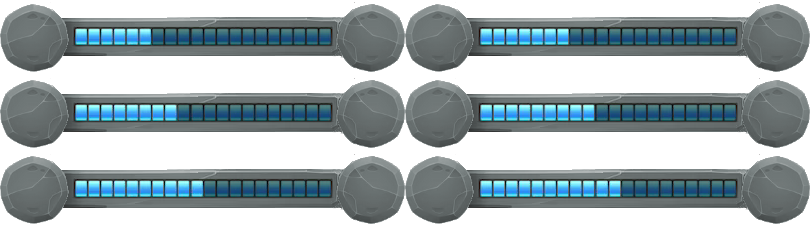
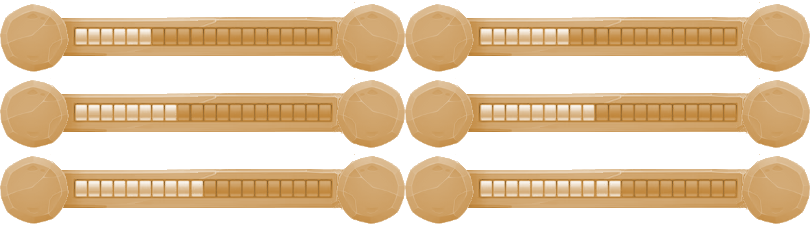
second commit

diff --git a/code/bits/client/DownloadEntity.cc b/code/bits/client/DownloadEntity.cc
@@ -1,8 +1,10 @@
 #include "DownloadEntity.h"
 
-#include <gf/AnimatedSprite.h>
 #include <gf/Coordinates.h>
 #include <gf/RenderTarget.h>
+#include <gf/Sprite.h>
+#include <gf/Text.h>
+#include <gf/Log.h>
 
 #include <cmath>
 
@@ -13,54 +15,68 @@ namespace tsl {
         static constexpr float barIncrement = 100 / 6.f;
     }
 
-    DownloadEntity::DownloadEntity(gf::Texture& tempTexture)
-    : m_tempTexture(tempTexture)
-    , m_animationLoaded(false)
-    , m_percentage(0) {
-        m_tempTexture.setSmooth(true);
-    }
-
-    void DownloadEntity::loadAnimation(std::vector<gf::Ref<gf::Texture>> textures) {
-        m_textures = textures;
-
-        m_animationLoaded = true;
+    DownloadEntity::DownloadEntity(gf::ResourceManager& resources)
+    : m_percentage(0)
+    , m_textures(std::vector<gf::Ref<gf::Texture>>({
+			resources.getTexture("animations/download_screen_0.png"),
+			resources.getTexture("animations/download_screen_1.png"),
+			resources.getTexture("animations/download_screen_2.png"),
+			resources.getTexture("animations/download_screen_3.png"),
+		}))
+    , m_backgroundTexture(resources.getTexture("images/downloadBackground.jpg"))
+    , m_font(resources.getFont("fonts/Trajan-Color-Concept.otf"))
+    , m_indication("Chargement ")
+    , m_interval(gf::seconds(0))
+    {
+        
     }
 
     void DownloadEntity::changeFrame() {
-        if (!m_animationLoaded) {
-            return;
-        }
-
         m_percentage += barIncrement;
     }
 
+    void DownloadEntity::update([[maybe_unused]] gf::Time time) {
+        m_interval += time;
+        gf::Log::info("la %f\n\n", m_interval.asSeconds());
+        if(m_interval.asSeconds() > 0.6f) {
+            m_interval = gf::Time::Zero;
+            
+            if(m_indication.size()==14) {
+                m_indication = m_indication.substr(0, 11);
+            }
+            m_indication += ".";
+        }
+    }
+    
     void DownloadEntity::render(gf::RenderTarget& target, const gf::RenderStates& states) {
         gf::Coordinates coordinates(target);
 
-        if (!m_animationLoaded) {
-            gf::Sprite sprite(m_tempTexture);
-            
-            float scaleFactor = coordinates.getWindowSize().y / static_cast<float>(DownloadScreenSize.height) * 0.1f;
-            sprite.scale(scaleFactor);
-    
-            sprite.setPosition(coordinates.getCenter());
-            sprite.setAnchor(gf::Anchor::Center);
-            target.draw(sprite, states);
-        }
-        else {
-            std::size_t numSpreadSheat = ((m_percentage==100) ? 99 : m_percentage) / 30;
-            float col = (static_cast<int>(ceilf(m_percentage)) % 10 == 0) ? 0.0f : 0.5f;
-            int mod = (numSpreadSheat != m_textures.size()-1) ? 30 : 15;
-            float lig = 1/3.f * (static_cast<int>(ceilf(m_percentage)) % mod / 10);
-            
-            gf::Sprite sprite(m_textures[numSpreadSheat], gf::RectF::fromPositionSize({ col, lig }, { 0.5f, 1/3.f }));
-            
-            float scaleFactor = coordinates.getWindowSize().y / static_cast<float>(DownloadScreenSize.height) * 0.1f;
-            sprite.scale(scaleFactor);
-    
-            sprite.setPosition(coordinates.getCenter());
-            sprite.setAnchor(gf::Anchor::Center);
-            target.draw(sprite, states);   
-        }
+        const gf::Vector2f scale = coordinates.getWindowSize() / gf::vec(1920.0f, 1080.0f);
+        gf::Sprite background(m_backgroundTexture);
+        background.setScale(scale);
+        
+        std::size_t numSpreadSheat = ((m_percentage==100) ? 99.f : m_percentage) / 30;
+        float col = (static_cast<int>(ceilf(m_percentage)) % 10 == 0) ? 0.0f : 0.5f;
+        int mod = (numSpreadSheat != m_textures.size()-1) ? 30 : 15;
+        float lig = 1/3.f * (static_cast<int>(ceilf(m_percentage)) % mod / 10);
+        
+        gf::Sprite sprite(m_textures[numSpreadSheat], gf::RectF::fromPositionSize({ col, lig }, { 0.5f, 1/3.f }));
+        
+        float scaleFactor = coordinates.getWindowSize().y / static_cast<float>(DownloadScreenSize.height) * 0.1f;
+        sprite.scale(scaleFactor);
+
+        sprite.setPosition(coordinates.getRelativePoint({ 0.5f, 0.8f}));
+        sprite.setAnchor(gf::Anchor::Center);
+
+
+        gf::Text download(m_indication, m_font);
+        download.setScale(scale);
+        download.setColor(gf::Color::White);
+        download.setPosition(coordinates.getRelativePoint({ 0.435f, 0.87f }));
+        download.setAnchor(gf::Anchor::CenterLeft);
+
+        target.draw(background, states);
+        target.draw(sprite, states);
+        target.draw(download, states);
     }
 }

diff --git a/code/bits/client/SettingsScene.cc b/code/bits/client/SettingsScene.cc
@@ -10,11 +10,16 @@
 
 namespace tsl {
     
+    namespace {
+        constexpr std::size_t nb_themes = 3;
+        std::array<std::string, nb_themes> themes = { "Bois", "Marbre", "Papier" };
+    }
+
     SettingsScene::SettingsScene(GameHub& game)
     : gf::Scene({game.getRenderer().getSize()})
     , m_game(game)
     , m_settings(game.resources)
-    , m_theme(0)
+    , m_theme(1)
     , m_music(0)
     , m_sound(0)
     {
@@ -62,11 +67,17 @@ namespace tsl {
         if (ImGui::Begin("Settings", nullptr, DefaultWindowFlags|ImGuiWindowFlags_NoTitleBar|ImGuiWindowFlags_NoBackground)) {
             ImGui::PushItemWidth(m_settings.m_paper.getSize().x * (scale.x / 1.56f));
             ImGui::SetWindowFontScale(coords.getRelativeCharacterSize(0.02f) * 0.059f);
-            
+
+            style.Colors[ImGuiCol_Text]                  = ImVec4(1.0f, 1.0f, 1.0f, 0.0f);
             ImGui::SetCursorPosX(sizeWindow.x * 0.065f);
             ImGui::SetCursorPosY(sizeWindow.y * 0.06f);
-            ImGui::SliderInt("", &m_theme, 1, 3);
-            
+            ImGui::SliderInt("", &m_theme, 1, nb_themes);
+
+            style.Colors[ImGuiCol_Text]                  = ImVec4(0.8f, 0.8f, 0.8f, 1.f);
+            ImGui::SetCursorPosX((sizeWindow.x - ImGui::CalcTextSize(themes[m_theme-1].c_str()).x) * 0.5f);
+            ImGui::SetCursorPosY(sizeWindow.y * 0.06f);
+            ImGui::Text("%s", themes[m_theme-1].c_str());
+
             ImGui::SetCursorPosX(sizeWindow.x * 0.065f);
             ImGui::SetCursorPosY(sizeWindow.y * 0.31f);
             ImGui::SliderInt(" ", &m_music, 0, 100);
@@ -78,7 +89,6 @@ namespace tsl {
             ImGui::SetCursorPosX((ImGui::GetWindowSize().x - sizeWindow.x * 0.2f) * 0.5f);
             ImGui::SetCursorPosY(sizeWindow.y * 0.74f);
             
-            ImGuiStyle& style = ImGui::GetStyle();
             style.Colors[ImGuiCol_Text]                  = ImVec4(1.0f, 1.0f, 1.0f, 0.0f);
             
             if (ImGui::Button("button", ImVec2(sizeWindow.x * 0.2f, sizeWindow.y * 0.2f))) {

diff --git a/code/bits/client/DownloadEntity.h b/code/bits/client/DownloadEntity.h
@@ -3,27 +3,30 @@
 
 #include <atomic>
 
-#include <gf/Animation.h>
 #include <gf/Entity.h>
+#include <gf/ResourceManager.h>
 #include <gf/Ref.h>
 
 namespace tsl {
 
 	class DownloadEntity: public gf::Entity {
 		public:
-			DownloadEntity(gf::Texture& tempTexture);
+			DownloadEntity(gf::ResourceManager& resources);
 
-			void loadAnimation(std::vector<gf::Ref<gf::Texture>> textures);
-			void changeFrame();
+			void changeFrame();			
 			
+			void update([[maybe_unused]] gf::Time time) override;
 			void render(gf::RenderTarget& target, const gf::RenderStates& states) override;
 
 		private:
-			gf::Texture& m_tempTexture;
-			std::atomic_bool m_animationLoaded;
-
-			std::vector<gf::Ref<gf::Texture>> m_textures;
 			float m_percentage;
+			std::vector<gf::Ref<gf::Texture>> m_textures;
+
+			gf::Texture& m_backgroundTexture;
+			gf::Font& m_font;
+			std::string m_indication;
+
+			gf::Time m_interval;
 	};
 
 } 

diff --git a/code/bits/client/DownloadScene.cc b/code/bits/client/DownloadScene.cc
@@ -7,21 +7,11 @@ namespace tsl {
 	DownloadScene::DownloadScene(GameHub& game)
 	: gf::Scene(game.getRenderer().getSize())
 	, m_game(game)
-	, m_downloadEntity(
-		m_game.resources.getTexture("images/download_screen.png")
-	) {
+	, m_downloadEntity(m_game.resources) 
+	{
 		setClearColor(gf::Color::Black);
 
 		addHudEntity(m_downloadEntity);
-	}
-
-	void DownloadScene::loadAnimation() {
-		m_downloadEntity.loadAnimation(std::vector<gf::Ref<gf::Texture>>({
-			m_game.resources.getTexture("animations/download_screen_0.png"),
-			m_game.resources.getTexture("animations/download_screen_1.png"),
-			m_game.resources.getTexture("animations/download_screen_2.png"),
-			m_game.resources.getTexture("animations/download_screen_3.png"),
-		}));
 	}
 
 	void DownloadScene::changeFrame() {

diff --git a/code/bits/client/RulesScene.cc b/code/bits/client/RulesScene.cc
@@ -8,7 +8,7 @@ namespace tsl {
     : gf::Scene(game.getRenderer().getSize())
     , m_game(game)
     , m_choice(RulesChoice::None)
-    , m_rules(game.resources,  m_choice)
+    , m_rules(m_game.resources,  m_choice)
     {
         setClearColor(gf::Color::Black);
         

diff --git a/code/bits/client/GameHub.h b/code/bits/client/GameHub.h
@@ -26,7 +26,6 @@ namespace tsl {
         GameHub& operator=(const GameHub&) = delete;
         GameHub& operator=(GameHub&&) = delete;
         
-        void loadingDownloadAssets();
         void loadingOtherAssets(Network& network);
         bool loadingFinished();
 

diff --git a/code/bits/client/GameHub.cc b/code/bits/client/GameHub.cc
@@ -31,10 +31,6 @@ namespace tsl {
     	ImGui::DestroyContext();
 	}
 
-	void GameHub::loadingDownloadAssets() {
-		download->loadAnimation();
-	}
-
 	void GameHub::loadingOtherAssets(Network& network) {
 		
 		common = std::make_unique<CommonScene>(*this);

diff --git a/code/bits/client/SettingsEntity.cc b/code/bits/client/SettingsEntity.cc
@@ -7,10 +7,6 @@
 
 namespace tsl {
 
-    namespace {
-        constexpr std::size_t nb_page = 4;
-    }
-
     SettingsEntity::SettingsEntity(gf::ResourceManager& resources)
     : m_paper(resources.getTexture("images/settings.png"))
     {

diff --git a/code/client.cc b/code/client.cc
@@ -10,8 +10,7 @@ int main(int argc, char *argv[]) {
     
 	tsl::GameHub hub;
 	tsl::Network network;  
-	
-	hub.loadingDownloadAssets();
+
 	hub.getWindow().toggleFullscreen();
 	
 	std::thread loading([&hub, &network]() {

diff --git a/code/bits/client/DownloadScene.h b/code/bits/client/DownloadScene.h
@@ -17,7 +17,6 @@ namespace tsl {
 		public:
 			DownloadScene(GameHub& game);
 
-			void loadAnimation();
 			void changeFrame();
 			
 		private:

diff --git a/README.md b/README.md
@@ -1,7 +1,8 @@
 # tsl
 ```
-git clone 
+git clone git@github.com:anthony-univ/tsl.git
 cd tsl/
+git submodule update --init
 mkdir build
 cd build
 cmake ..
